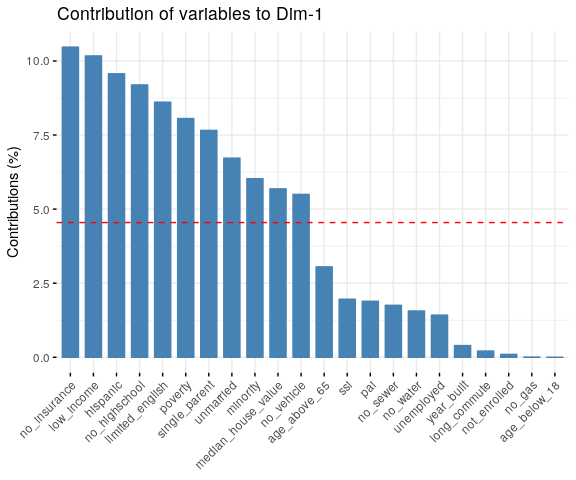
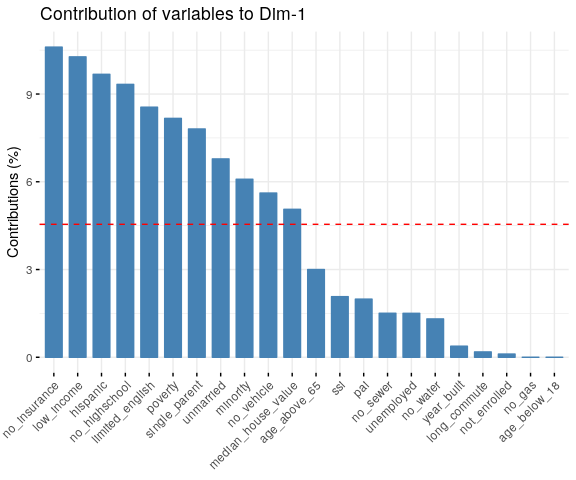
minor change to clean the acs dataset

Changed region(s): [[0.0312, 0.0938, 0.9688, 0.75], [0.0, 0.7812, 0.9688, 0.9688], [0.0625, 0.0, 0.5625, 0.0625]]

diff --git a/src/pca_EV_index/07-22-2019_pca.md b/src/pca_EV_index/07-22-2019_pca.md
@@ -7,7 +7,7 @@ PCA on ACS data based on Census Tract
 =====================================
 
 ``` r
-data <- read.csv("./data/working/ACS_final_index_2/07_22_2019_joined_acs_final.csv") %>% select (-c(Geography,X)) %>% na.omit()
+data <- read.csv("./data/working/ACS_final_index_2/07_22_2019_joined_acs_final.csv") %>% select (-c(Geography,id_type)) %>% na.omit()
 
 #PCA with standadization
 pr.data <- PCA(data, scale.unit = TRUE, graph = FALSE)
@@ -46,50 +46,50 @@ eigenvalues
 ```
 
     ##         eigenvalue percentage of variance
-    ## comp 1  7.81608115             35.5276416
-    ## comp 2  2.35996160             10.7270982
-    ## comp 3  1.99037331              9.0471514
-    ## comp 4  1.62054552              7.3661160
-    ## comp 5  1.13010140              5.1368245
-    ## comp 6  1.05715027              4.8052285
-    ## comp 7  0.95793559              4.3542527
-    ## comp 8  0.87130839              3.9604927
-    ## comp 9  0.77042848              3.5019477
-    ## comp 10 0.59517183              2.7053265
-    ## comp 11 0.49452604              2.2478456
-    ## comp 12 0.42979322              1.9536055
-    ## comp 13 0.37924230              1.7238286
-    ## comp 14 0.29787467              1.3539758
-    ## comp 15 0.29143540              1.3247064
-    ## comp 16 0.21935073              0.9970488
-    ## comp 17 0.17893041              0.8133201
-    ## comp 18 0.15413155              0.7005980
-    ## comp 19 0.12089763              0.5495347
-    ## comp 20 0.10890652              0.4950296
-    ## comp 21 0.08669387              0.3940630
-    ## comp 22 0.06916010              0.3143641
+    ## comp 1  7.77036268             35.3198304
+    ## comp 2  2.38604136             10.8456426
+    ## comp 3  2.00022812              9.0919460
+    ## comp 4  1.61073585              7.3215266
+    ## comp 5  1.12357608              5.1071640
+    ## comp 6  1.06283389              4.8310631
+    ## comp 7  0.96078352              4.3671978
+    ## comp 8  0.87091377              3.9586990
+    ## comp 9  0.76096529              3.4589332
+    ## comp 10 0.58671094              2.6668679
+    ## comp 11 0.49462067              2.2482758
+    ## comp 12 0.43403169              1.9728713
+    ## comp 13 0.38103509              1.7319777
+    ## comp 14 0.30376706              1.3807593
+    ## comp 15 0.28962383              1.3164720
+    ## comp 16 0.23884958              1.0856799
+    ## comp 17 0.17769549              0.8077068
+    ## comp 18 0.15345847              0.6975385
+    ## comp 19 0.12436724              0.5653056
+    ## comp 20 0.11240202              0.5109183
+    ## comp 21 0.08566614              0.3893915
+    ## comp 22 0.07133122              0.3242328
     ##         cumulative percentage of variance
-    ## comp 1                           35.52764
-    ## comp 2                           46.25474
-    ## comp 3                           55.30189
-    ## comp 4                           62.66801
-    ## comp 5                           67.80483
-    ## comp 6                           72.61006
-    ## comp 7                           76.96431
-    ## comp 8                           80.92481
-    ## comp 9                           84.42675
-    ## comp 10                          87.13208
-    ## comp 11                          89.37993
-    ## comp 12                          91.33353
-    ## comp 13                          93.05736
-    ## comp 14                          94.41134
-    ## comp 15                          95.73604
-    ## comp 16                          96.73309
-    ## comp 17                          97.54641
-    ## comp 18                          98.24701
-    ## comp 19                          98.79654
-    ## comp 20                          99.29157
-    ## comp 21                          99.68564
+    ## comp 1                           35.31983
+    ## comp 2                           46.16547
+    ## comp 3                           55.25742
+    ## comp 4                           62.57895
+    ## comp 5                           67.68611
+    ## comp 6                           72.51717
+    ## comp 7                           76.88437
+    ## comp 8                           80.84307
+    ## comp 9                           84.30200
+    ## comp 10                          86.96887
+    ## comp 11                          89.21715
+    ## comp 12                          91.19002
+    ## comp 13                          92.92200
+    ## comp 14                          94.30275
+    ## comp 15                          95.61923
+    ## comp 16                          96.70491
+    ## comp 17                          97.51261
+    ## comp 18                          98.21015
+    ## comp 19                          98.77546
+    ## comp 20                          99.28638
+    ## comp 21                          99.67577
     ## comp 22                         100.00000
 
 Dimension description
@@ -103,52 +103,52 @@ The variables can be plotted as points in the component space using their loadin
 pr.data$var$coord
 ```
 
-    ##                          Dim.1       Dim.2        Dim.3        Dim.4
-    ## age_below_18       -0.00232260  0.57253546 -0.595110621 -0.341160563
-    ## age_above_65       -0.48843934  0.17174493  0.680661117 -0.223927081
-    ## no_highschool       0.84764681  0.29785016  0.135669353 -0.136049021
-    ## minority            0.68631245 -0.19477448 -0.358571954  0.210557656
-    ## hispanic            0.86471301  0.24179380  0.051337056 -0.098038949
-    ## unmarried           0.72487145 -0.34312725  0.174992809  0.295467292
-    ## single_parent       0.77367265  0.20153896 -0.137938097 -0.002483437
-    ## limited_english     0.82035012  0.17417486  0.063757748 -0.108101366
-    ## low_income          0.89161297 -0.13266800  0.072225830  0.170755715
-    ## poverty             0.79354916  0.16797443  0.138304713  0.093407517
-    ## ssi                 0.39114554  0.22827479  0.178931066 -0.068423278
-    ## pai                 0.38441991  0.10441755 -0.008209724 -0.189420997
-    ## no_insurance        0.90449930  0.20749645 -0.006652650  0.009835153
-    ## unemployed          0.33349354  0.28438025 -0.145141384  0.197735151
-    ## not_enrolled        0.08707874 -0.45574714  0.674480691  0.094923509
-    ## no_vehicle          0.65548168  0.09215723  0.371938899 -0.012564273
-    ## long_commute       -0.12841915  0.26742314  0.006978075  0.087461131
-    ## no_water           -0.34957381  0.57835474  0.252478996  0.542947263
-    ## no_sewer           -0.37010193  0.60265769  0.210209797  0.478795354
-    ## no_gas             -0.02059148  0.29084641  0.003128764  0.452169821
-    ## year_built         -0.17549848 -0.29376682 -0.429737485  0.623475569
-    ## median_house_value -0.66657795  0.48970510  0.078224219 -0.175752301
-    ##                             Dim.5
-    ## age_below_18        0.07607534585
-    ## age_above_65        0.00003079321
-    ## no_highschool      -0.01277736566
-    ## minority            0.29494051267
-    ## hispanic           -0.09775930714
-    ## unmarried          -0.15445063215
-    ## single_parent      -0.03509107218
-    ## limited_english     0.06998761537
-    ## low_income         -0.01175010507
-    ## poverty            -0.00402424860
-    ## ssi                 0.31570258373
-    ## pai                 0.36697879214
-    ## no_insurance       -0.00375451030
-    ## unemployed         -0.45438264393
-    ## not_enrolled        0.16226797472
-    ## no_vehicle          0.07873073326
-    ## long_commute        0.53844125987
-    ## no_water            0.11247090637
-    ## no_sewer            0.08044006588
-    ## no_gas             -0.35229397303
-    ## year_built          0.30157286545
-    ## median_house_value  0.00444795089
+    ##                           Dim.1      Dim.2        Dim.3        Dim.4
+    ## age_below_18       -0.002468485  0.5149903 -0.651945210 -0.324101526
+    ## age_above_65       -0.482850441  0.2101758  0.648259789 -0.273677738
+    ## no_highschool       0.851480380  0.2944983  0.103040654 -0.150262690
+    ## minority            0.687736110 -0.2054766 -0.326329720  0.234137050
+    ## hispanic            0.867000324  0.2294108  0.031276847 -0.103984825
+    ## unmarried           0.725976767 -0.3217630  0.213922159  0.292333964
+    ## single_parent       0.778811507  0.1769330 -0.156700750 -0.009776213
+    ## limited_english     0.815066700  0.1723429  0.046555589 -0.116835549
+    ## low_income          0.893351280 -0.1176428  0.089305313  0.169394102
+    ## poverty             0.796641321  0.1796366  0.136059633  0.085145801
+    ## ssi                 0.401432343  0.2357584  0.153303442 -0.108833455
+    ## pai                 0.393030089  0.1102697 -0.018639193 -0.197966037
+    ## no_insurance        0.907704470  0.1966807 -0.017824838  0.003820961
+    ## unemployed          0.341773151  0.2662623 -0.166776630  0.173112082
+    ## not_enrolled        0.092432965 -0.3916200  0.714103906  0.087510919
+    ## no_vehicle          0.660544371  0.1248841  0.367523467 -0.035015355
+    ## long_commute       -0.119269053  0.2604372 -0.036294233  0.057874618
+    ## no_water           -0.319314545  0.6363844  0.250691694  0.505552990
+    ## no_sewer           -0.342035086  0.6554127  0.207305100  0.445387243
+    ## no_gas             -0.003626693  0.3092319  0.005511776  0.432424715
+    ## median_house_value -0.626942834  0.5218603  0.068851381 -0.169230424
+    ## year_built         -0.171523992 -0.2603878 -0.359146052  0.666781950
+    ##                           Dim.5
+    ## age_below_18        0.066738558
+    ## age_above_65       -0.006778907
+    ## no_highschool      -0.013551405
+    ## minority            0.295778606
+    ## hispanic           -0.100445793
+    ## unmarried          -0.146543230
+    ## single_parent      -0.041816674
+    ## limited_english     0.075461596
+    ## low_income         -0.004936317
+    ## poverty            -0.004446030
+    ## ssi                 0.295929486
+    ## pai                 0.357357298
+    ## no_insurance       -0.005300210
+    ## unemployed         -0.460619499
+    ## not_enrolled        0.160362000
+    ## no_vehicle          0.076547266
+    ## long_commute        0.528650361
+    ## no_water            0.109791371
+    ## no_sewer            0.078784991
+    ## no_gas             -0.375127715
+    ## median_house_value  0.013437208
+    ## year_built          0.307684600
 
 Correlation circle projects the features/variables of the data into the space of the first two dimensions. The angle shows how the variables are related as well as their directions relative to the first two dimensions
 
@@ -174,19 +174,20 @@ pr.desc$Dim.4
 
     ## $quanti
     ##                    correlation      p.value
-    ## year_built           0.6234756 9.320613e-29
-    ## no_water             0.5429473 7.080180e-21
-    ## no_sewer             0.4787954 5.841825e-16
-    ## no_gas               0.4521698 3.331756e-14
-    ## unmarried            0.2954673 1.641493e-06
-    ## minority             0.2105577 7.324801e-04
-    ## unemployed           0.1977352 1.539329e-03
-    ## low_income           0.1707557 6.371202e-03
-    ## no_highschool       -0.1360490 3.018470e-02
-    ## median_house_value  -0.1757523 4.967814e-03
-    ## pai                 -0.1894210 2.433618e-03
-    ## age_above_65        -0.2239271 3.219188e-04
-    ## age_below_18        -0.3411606 2.423929e-08
+    ## year_built           0.6667819 2.849862e-38
+    ## no_water             0.5055530 5.009795e-20
+    ## no_sewer             0.4453872 2.166653e-15
+    ## no_gas               0.4324247 1.661327e-14
+    ## unmarried            0.2923340 4.621537e-07
+    ## minority             0.2341370 6.200898e-05
+    ## unemployed           0.1731121 3.259413e-03
+    ## low_income           0.1693941 4.001779e-03
+    ## limited_english     -0.1168355 4.798976e-02
+    ## no_highschool       -0.1502627 1.080353e-02
+    ## median_house_value  -0.1692304 4.037719e-03
+    ## pai                 -0.1979660 7.447292e-04
+    ## age_above_65        -0.2736777 2.522298e-06
+    ## age_below_18        -0.3241015 1.919949e-08
 
 The following four variables are strongly related with Dimension2:
 - proportion of housing with no sewer available (no\_sewer) - proportion of housing with no water available (no\_water) - proportion of people aged &lt; 18 (age\_below\_18) - median house value weighted by number of units (median\_house\_value)
@@ -198,20 +199,19 @@ pr.desc$Dim.3
 
     ## $quanti
     ##               correlation      p.value
-    ## age_above_65    0.6806611 6.488518e-36
-    ## not_enrolled    0.6744807 4.606630e-35
-    ## no_vehicle      0.3719389 9.390487e-10
-    ## no_water        0.2524790 4.698492e-05
-    ## no_sewer        0.2102098 7.478268e-04
-    ## ssi             0.1789311 4.226415e-03
-    ## unmarried       0.1749928 5.161420e-03
-    ## poverty         0.1383047 2.752825e-02
-    ## no_highschool   0.1356694 3.065269e-02
-    ## single_parent  -0.1379381 2.794584e-02
-    ## unemployed     -0.1451414 2.066607e-02
-    ## minority       -0.3585720 4.021427e-09
-    ## year_built     -0.4297375 7.728223e-13
-    ## age_below_18   -0.5951106 9.980973e-26
+    ## not_enrolled    0.7141039 4.774168e-46
+    ## age_above_65    0.6482598 1.327759e-35
+    ## no_vehicle      0.3675235 1.315782e-10
+    ## no_water        0.2506917 1.729144e-05
+    ## unmarried       0.2139222 2.616239e-04
+    ## no_sewer        0.2073051 4.075842e-04
+    ## ssi             0.1533034 9.290245e-03
+    ## poverty         0.1360596 2.112913e-02
+    ## single_parent  -0.1567007 7.824668e-03
+    ## unemployed     -0.1667766 4.612609e-03
+    ## minority       -0.3263297 1.514210e-08
+    ## year_built     -0.3591461 3.654048e-10
+    ## age_below_18   -0.6519452 4.046371e-36
 
 ### Contributions of variables to the principal components
 
@@ -221,52 +221,52 @@ The color (or the length if the vectors) on the correlation circle shows the con
 pr.data$var$contrib
 ```
 
-    ##                             Dim.1      Dim.2         Dim.3         Dim.4
-    ## age_below_18        0.00006901761 13.8899231 17.7934787451  7.1821820319
-    ## age_above_65        3.05233510004  1.2498645 23.2770181080  3.0942257841
-    ## no_highschool       9.19265171201  3.7591593  0.9247598570  1.1421669939
-    ## minority            6.02635469950  1.6075304  6.4597854956  2.7357779027
-    ## hispanic            9.56654077389  2.4773387  0.1324120109  0.5931111048
-    ## unmarried           6.72253276898  4.9889079  1.5385296387  5.3871316333
-    ## single_parent       7.65817745495  1.7211277  0.9559472314  0.0003805791
-    ## limited_english     8.61012462463  1.2854821  0.2042355783  0.7211093546
-    ## low_income         10.17100089233  0.7458087  0.2620900556  1.7992406793
-    ## poverty             8.05672630102  1.1955876  0.9610354720  0.5383967424
-    ## ssi                 1.95743665343  2.2080606  1.6085588719  0.2888993209
-    ## pai                 1.89070027409  0.4620001  0.0033862777  2.2140886141
-    ## no_insurance       10.46712501901  1.8243846  0.0022235903  0.0059689925
-    ## unemployed          1.42293742523  3.4268407  1.0583954855  2.4127177783
-    ## not_enrolled        0.09701417708  8.8012219 22.8562250589  0.5560147742
-    ## no_vehicle          5.49707998492  0.3598768  6.9503818306  0.0097412229
-    ## long_commute        0.21099420759  3.0303517  0.0024464522  0.4720292845
-    ## no_water            1.56346702661 14.1737139  3.2026978737 18.1908947093
-    ## no_sewer            1.75248233136 15.3899237  2.2200940260 14.1461617674
-    ## no_gas              0.00542482848  3.5844495  0.0004918255 12.6165876971
-    ## year_built          0.39405573466  3.6567944  9.2783753194 23.9870944306
-    ## median_house_value  5.68476899259 10.1616521  0.3074311958  1.9060786022
-    ##                                Dim.5
-    ## age_below_18        0.51211849260421
-    ## age_above_65        0.00000008390592
-    ## no_highschool       0.01444658625728
-    ## minority            7.69753104883419
-    ## hispanic            0.84566589752560
-    ## unmarried           2.11087233485480
-    ## single_parent       0.10896220006561
-    ## limited_english     0.43343600076536
-    ## low_income          0.01221704259271
-    ## poverty             0.00143301980243
-    ## ssi                 8.81939634174648
-    ## pai                11.91693365655329
-    ## no_insurance        0.00124735246300
-    ## unemployed         18.26947452890549
-    ## not_enrolled        2.32995867995736
-    ## no_vehicle          0.54849311479335
-    ## long_commute       25.65424578482087
-    ## no_water            1.11934245888315
-    ## no_sewer            0.57256846236435
-    ## no_gas             10.98229270611206
-    ## year_built          8.04761354318369
-    ## median_house_value  0.00175066300888
+    ##                             Dim.1      Dim.2       Dim.3         Dim.4
+    ## age_below_18        0.00007841872 11.1152714 21.24920418  6.5213547456
+    ## age_above_65        3.00043328716  1.8513448 21.00964139  4.6500178359
+    ## no_highschool       9.33056623511  3.6348592  0.53080827  1.4017739863
+    ## minority            6.08698688633  1.7694848  5.32394707  3.4034232300
+    ## hispanic            9.67380279723  2.2057160  0.04890648  0.6712983879
+    ## unmarried           6.78272416004  4.3390446  2.28787355  5.3055965971
+    ## single_parent       7.80590801970  1.3120184  1.22761622  0.0059335825
+    ## limited_english     8.54958453385  1.2448271  0.10835878  0.8474726356
+    ## low_income         10.27077552603  0.5800331  0.39872647  1.7814442805
+    ## poverty             8.16741019159  1.3524196  0.92550562  0.4500928793
+    ## ssi                 2.07387908305  2.3294660  1.17496326  0.7353608572
+    ## pai                 1.98797221214  0.5096056  0.01736899  2.4330837250
+    ## no_insurance       10.60346137363  1.6212330  0.01588443  0.0009064021
+    ## unemployed          1.50326170942  2.9712644  1.39056361  1.8605032582
+    ## not_enrolled        0.10995436603  6.4276431 25.49431159  0.4754448639
+    ## no_vehicle          5.61516731536  0.6536363  6.75290471  0.0761189424
+    ## long_commute        0.18306876539  2.8426814  0.06585606  0.2079466619
+    ## no_water            1.31218815134 16.9730991  3.14195791 15.8675195252
+    ## no_sewer            1.50556679421 18.0032867  2.14852517 12.3154765584
+    ## no_gas              0.00016927016  4.0076572  0.00151881 11.6090502550
+    ## median_house_value  5.05841662051 11.4138069  0.23699860  1.7780032970
+    ## year_built          0.37862428298  2.8416014  6.44855881 27.6021774930
+    ##                           Dim.5
+    ## age_below_18        0.396415983
+    ## age_above_65        0.004089939
+    ## no_highschool       0.016344295
+    ## minority            7.786298219
+    ## hispanic            0.897968326
+    ## unmarried           1.911300776
+    ## single_parent       0.155631138
+    ## limited_english     0.506815035
+    ## low_income          0.002168720
+    ## poverty             0.001759310
+    ## ssi                 7.794243982
+    ## pai                11.365873736
+    ## no_insurance        0.002500251
+    ## unemployed         18.883485226
+    ## not_enrolled        2.288760996
+    ## no_vehicle          0.521503092
+    ## long_commute       24.873367250
+    ## no_water            1.072837478
+    ## no_sewer            0.552439204
+    ## no_gas             12.524367982
+    ## median_house_value  0.016069989
+    ## year_built          8.425759072
 
 If the contribution of the variables were uniform, the expected value would be 1/length(variables) = 1/22 = 4.5%.The red dashed line on the graph below indicates the expected average contribution. A variable with a contribution larger than this cutoff could be considered as important in contributing to the component.
 
